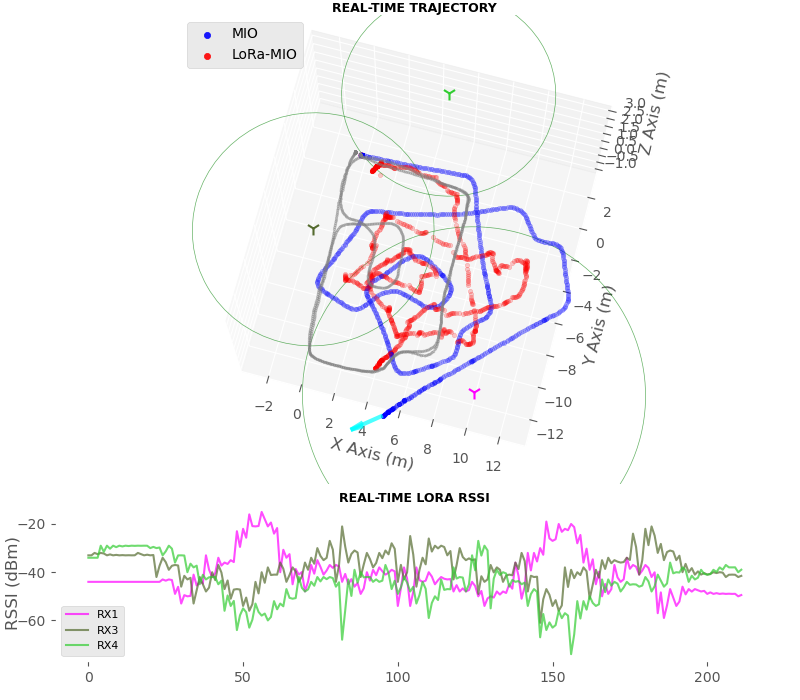
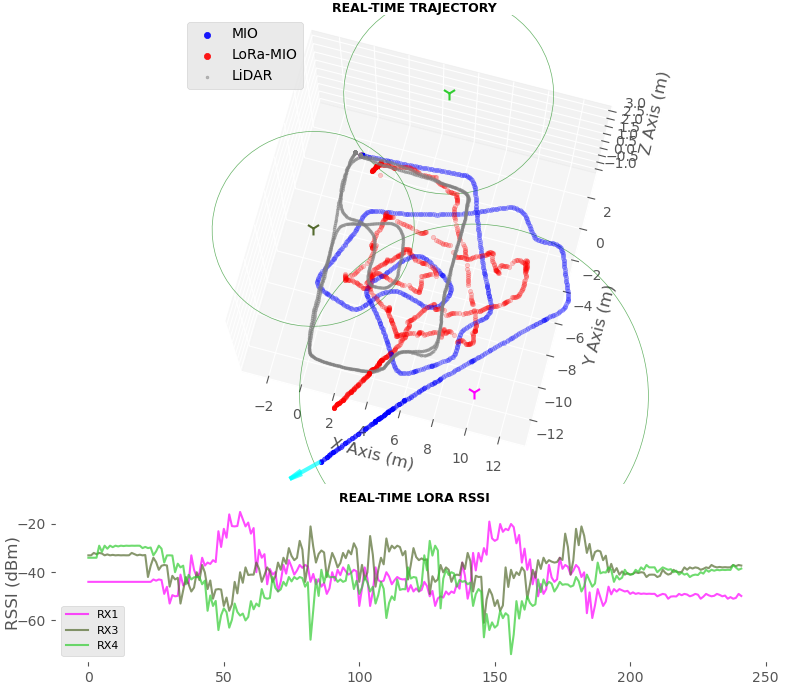
Refined fine-grained plots

diff --git a/EKF.py b/EKF.py
@@ -23,7 +23,7 @@ import matplotlib
 
 
 # LoRa RX Coordinates in order of Pi-IP: 93, 94, 95, 96, 97
-
+'''
 R1 = np.array([[-2., 10., 0.],
                [12., 10., 0.],
                [13., -1., 0.],
@@ -37,7 +37,7 @@ R1 = np.array([[10., 2., 0.],
                [-1., -13., 0.],
                [-1.5, -5, 0.],
                [4., 5., 0.]])
-'''
+
 '''
 R1 = np.array([[0., 0., 0.],
                [15., 5., 0.],
@@ -736,8 +736,8 @@ class EKF_Fusion():
         # Not Attempting to Visual EKF Updated Orientation
         #self.handle_arrw_ekf = self.ax21.quiver([self.my_kf.x[0, 0]], [self.my_kf.x[1, 0]], [self.my_kf.x[2, 0]], self.U_ekf, self.V_ekf, self.W_ekf, color='r', length=1., alpha=.7)
         # Manually Equal Axis and Limit
-        self.ax21.auto_scale_xyz([-2.5, 12.5], [-5, 10], [-1, 3])
-        #self.ax21.auto_scale_xyz([-2.5, 12.5], [-12.5, 2.5], [-1, 3])
+        #self.ax21.auto_scale_xyz([-2.5, 12.5], [-5, 10], [-1, 3])
+        self.ax21.auto_scale_xyz([-2.5, 12.5], [-12.5, 2.5], [-1, 3])
         #self.ax21.auto_scale_xyz([-5, 15], [-15, 5], [-1, 3])
 
         # Plot Range

diff --git a/ReplayModalities.py b/ReplayModalities.py
@@ -57,7 +57,7 @@ class EKF_OriginFusion(EKF_Origin):
             #print(R_scalar)
             self.my_kf.R[0, 0] = 0.15 * 1  # ABS_X
             self.my_kf.R[1, 1] = 0.15 * 1  # ABS_Y
-            self.my_kf.R[2, 2] = 1. * R_scalar  # ABS_YAW
+            self.my_kf.R[2, 2] = 1 * R_scalar  # ABS_YAW
             for rowcol in range(3, 3+self.anchor):
                 self.my_kf.R[rowcol, rowcol] = 0.2 * 4.887**2
 
@@ -81,12 +81,12 @@ def main():
     # LeftVicon2:  '2021-03-24-15-28-40'
     # Left3:       '2021-03-24-15-45-47'
     # RightVicon2: '2021-03-24-16-06-10'
-    GtDate = '2021-03-24-15-45-47'
-    RxIP_lst = ['94', '95', '97']
+    GtDate = '2021-03-24-16-06-10'
+    RxIP_lst = ['94', '96', '97']
     RxLst = [int(idx) - 93 for idx in RxIP_lst]
 
-    ekf = EKF_OriginFusion(anchorLst=RxLst, ismdn=False, dense=False, GtDirDate=GtDate)
-
+    ekf = EKF_OriginFusion(anchorLst=RxLst, ismdn=False, dense=True, GtDirDate=GtDate)
+    #time.sleep(5)
     for filename in os.listdir('TEST'):
         if filename.endswith('.txt'):
             with open(join('TEST', filename), "r") as f:
